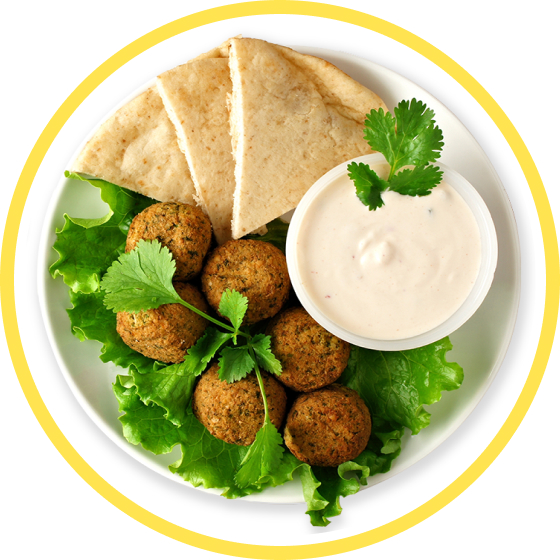
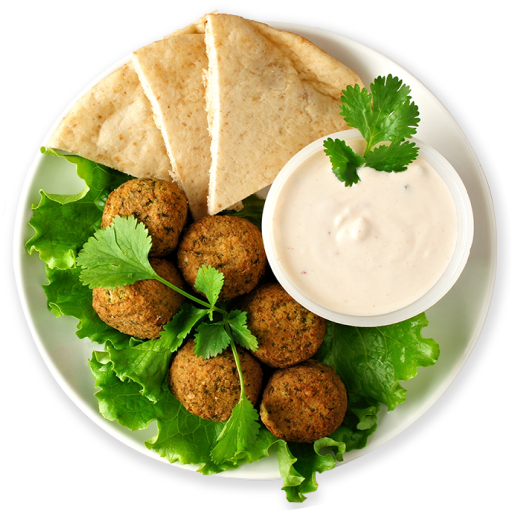
update 3

diff --git a/css/styles.css b/css/styles.css
@@ -178,8 +178,11 @@ body {
     flex: space-around;
 }
 
-.favorite-container-left-side {
-    margin-right: 172px;
+.favorite-container-right-side {
+    margin-left: 172px;
+    border: 14px solid var(--accent-color-yellow);
+    border-radius: 300px;
+    padding: 17px;
 }
 
 .section-description-favorite {
